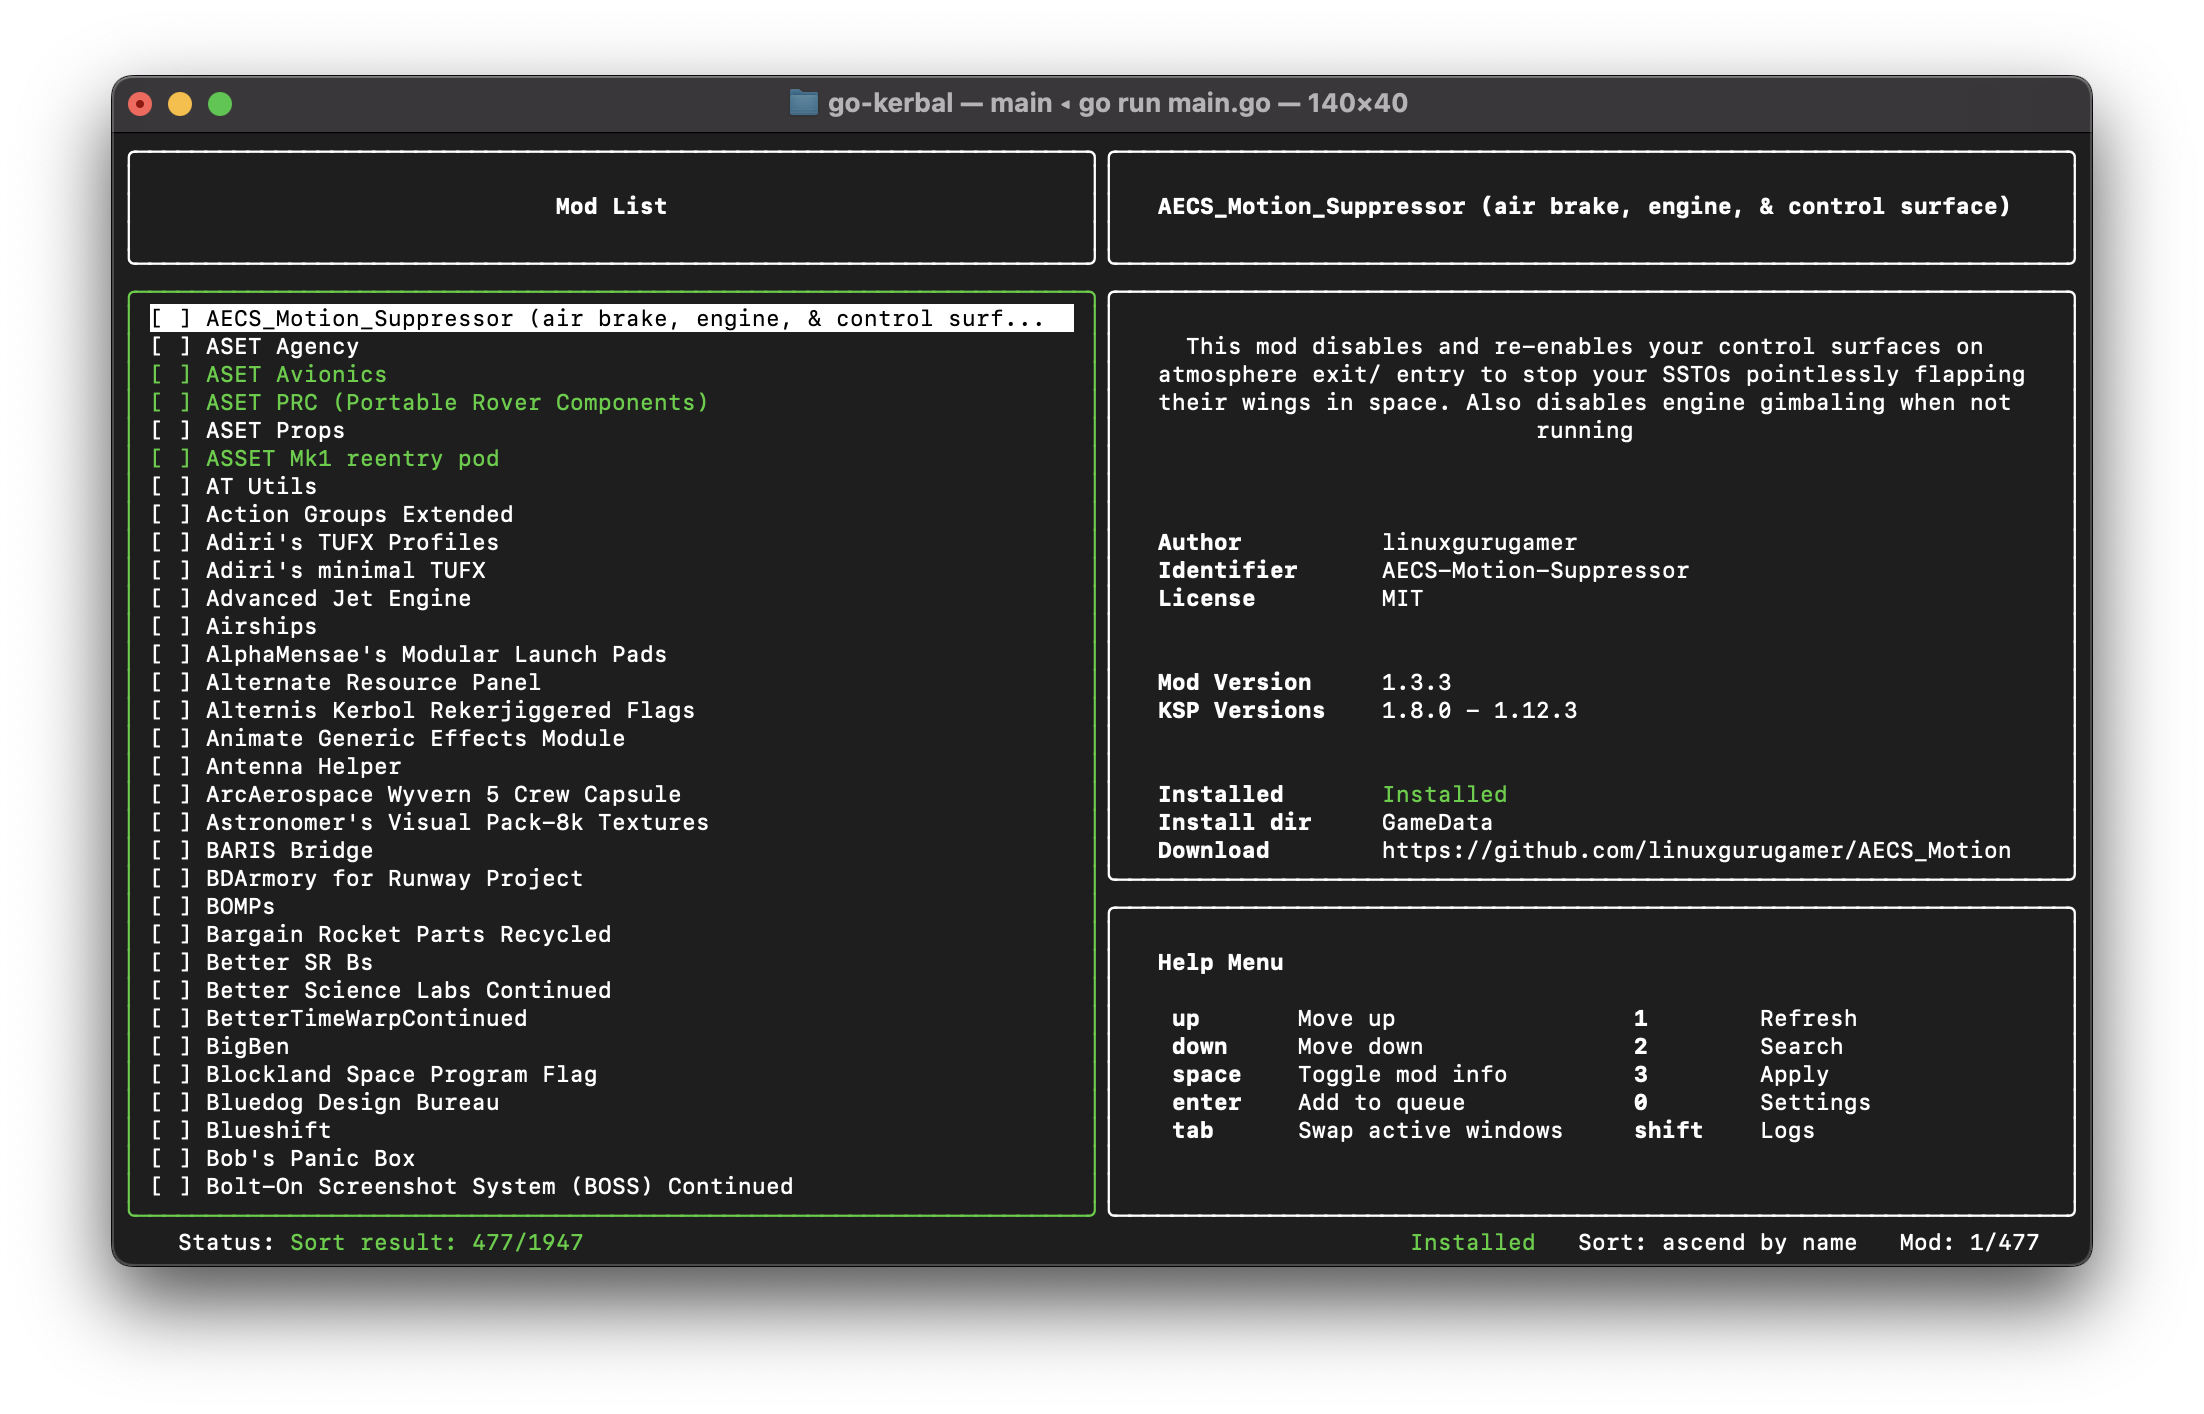
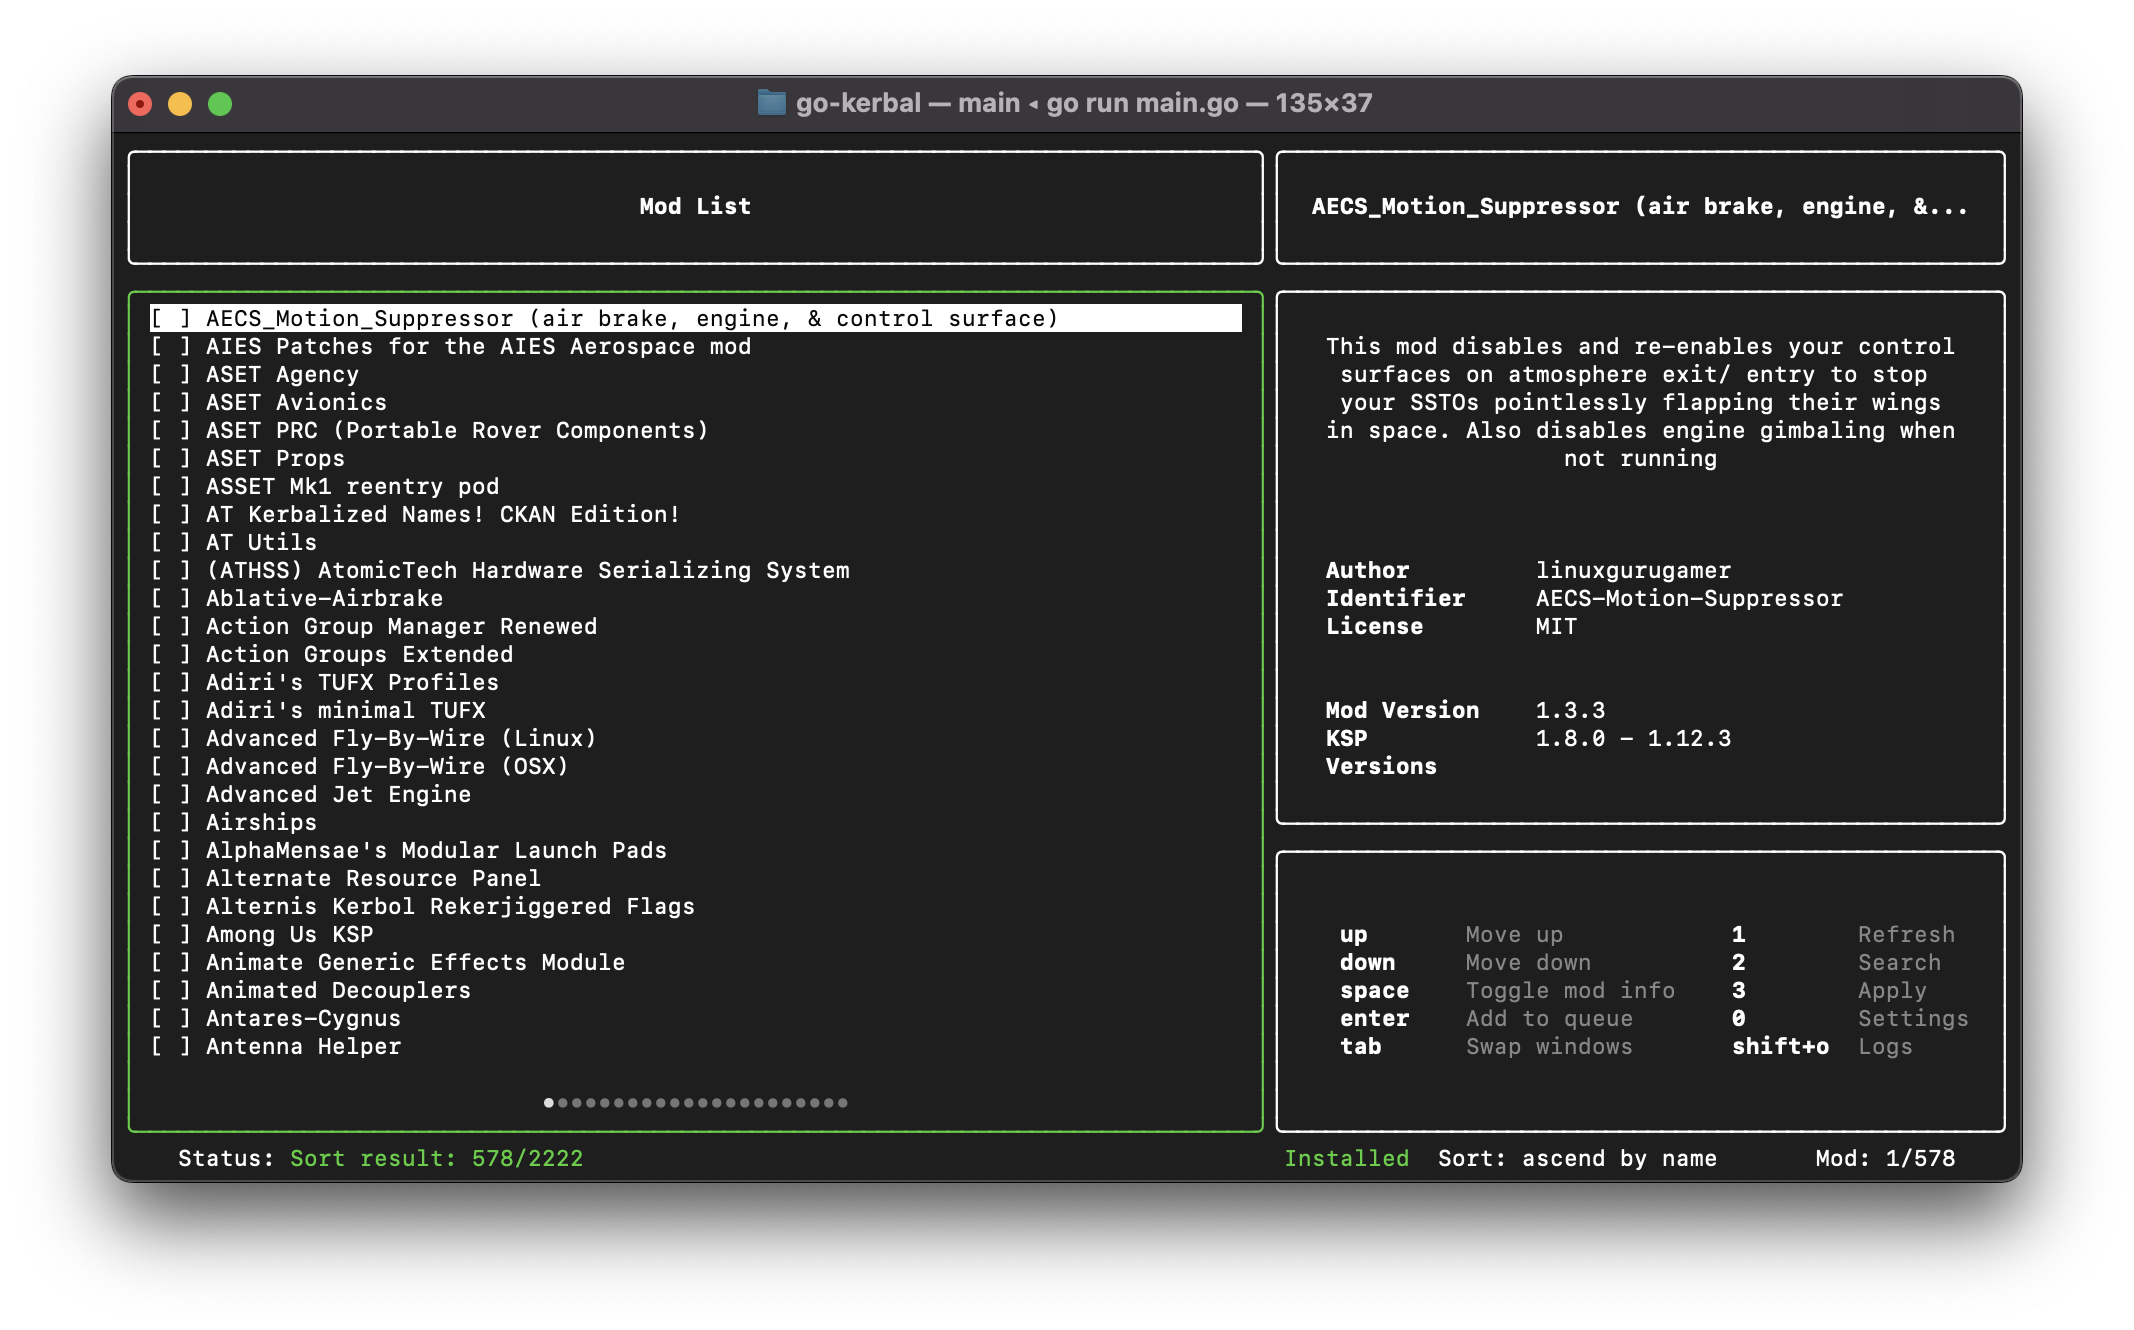
more format adjustments

diff --git a/tui/primaryViews.go b/tui/primaryViews.go
@@ -65,9 +65,10 @@ func (b Bubble) modInfoView() string {
 	if !b.nav.listCursorHide {
 		mod := b.nav.activeMod
 
-		keyStyle := style.KeyStyle.Width(b.bubbles.secondaryViewport.Width / 4)
+		keyStyle := style.KeyStyle.Width((b.bubbles.secondaryViewport.Width / 4) + 3)
 
-		valueStyle := style.ValueStyle.Width(b.bubbles.secondaryViewport.Width * 3 / 4)
+		//valueStyle := style.ValueStyle.Width(b.bubbles.secondaryViewport.Width * 3 / 4)
+		valueStyle := style.ValueStyle
 
 		abstractStyle := style.AbstractInfo.Width(b.bubbles.secondaryViewport.Width)
 
@@ -99,7 +100,8 @@ func (b Bubble) modInfoView() string {
 			installed = drawKVColor("Installed", "Installed", theme.AppTheme.InstalledColor)
 		}
 		installDir := drawKV("Install dir", mod.Install.InstallTo)
-		download := drawKV("Download", mod.Download.URL)
+		download := trunc(mod.Download.URL, (b.bubbles.secondaryViewport.Width*2/3)-3)
+		download = drawKV("Download", download)
 		dependencies := drawKVColor("Dependencies", "None", theme.AppTheme.Green)
 		if len(mod.ModDepends) > 0 {
 			dependencies = drawKVColor("Dependencies", strings.Join(mod.ModDepends, ", "), theme.AppTheme.Orange)
@@ -325,6 +327,8 @@ func (b Bubble) settingsView() string {
 	compat := b.drawKV("Hide Incompatible", fmt.Sprintf("%v", cfg.Settings.HideIncompatibleMods), false)
 
 	kspDir := trunc(cfg.Settings.KerbalDir, (b.bubbles.secondaryViewport.Width*2/3)-3)
+	metaRepo := trunc(cfg.Settings.MetaRepo, (b.bubbles.secondaryViewport.Width*2/3)-3)
+	hash := trunc(cfg.Settings.LastRepoHash, (b.bubbles.secondaryViewport.Width*2/3)-3)
 
 	if b.nav.menuCursor == internal.MenuKspDir {
 		configLines = append(configLines, b.drawKV("Kerbal Directory", kspDir, true))
@@ -335,8 +339,8 @@ func (b Bubble) settingsView() string {
 	configLines = append(configLines, b.drawKV("Kerbal Version", cfg.Settings.KerbalVer, false))
 	configLines = append(configLines, b.drawKV("Logging", fmt.Sprintf("%v", cfg.Settings.EnableLogging), false))
 	configLines = append(configLines, b.drawKV("Mousewheel", fmt.Sprintf("%v", cfg.Settings.EnableMouseWheel), false))
-	configLines = append(configLines, b.drawKV("Metadata Repo", cfg.Settings.MetaRepo, false))
-	configLines = append(configLines, b.drawKV("Last Repo Hash", cfg.Settings.LastRepoHash, false))
+	configLines = append(configLines, b.drawKV("Metadata Repo", metaRepo, false))
+	configLines = append(configLines, b.drawKV("Last Repo Hash", hash, false))
 	configLines = append(configLines, b.drawKV("Theme", cfg.AppTheme, false))
 
 	switch b.nav.menuCursor {

diff --git a/tui/secondaryViews.go b/tui/secondaryViews.go
@@ -9,7 +9,7 @@ import (
 )
 
 func (b Bubble) homeView() string {
-	contentStyle := styleWidth(b.bubbles.commandViewport.Width - 5).
+	contentStyle := styleWidth(b.bubbles.commandViewport.Width).
 		Padding(2).
 		Render
 
@@ -25,7 +25,7 @@ func (b Bubble) homeView() string {
 			"\n" +
 			"Press tab to get back to the confirmation window \n"
 		content = styleWidth(b.bubbles.secondaryViewport.Width).
-			Align(lipgloss.Center).
+			Align(lipgloss.Left).
 			Render(content)
 	default:
 		content = "" +
@@ -83,7 +83,7 @@ func (b Bubble) helpView() string {
 		b.drawHelpKV("down", "Move down"),
 		b.drawHelpKV("space", "Toggle mod info"),
 		b.drawHelpKV("enter", "Add to queue"),
-		b.drawHelpKV("tab", "Swap active windows"),
+		b.drawHelpKV("tab", "Swap windows"),
 	}
 
 	rightColumn := []string{
@@ -102,7 +102,7 @@ func (b Bubble) helpView() string {
 
 	return styleWidth(b.bubbles.commandViewport.Width).
 		Align(lipgloss.Left).
-		Padding(1, 3).
+		Padding(1, 1).
 		Render(content)
 }
 

diff --git a/tui/update.go b/tui/update.go
@@ -81,10 +81,10 @@ func (b Bubble) Update(msg tea.Msg) (tea.Model, tea.Cmd) {
 		b.width = msg.Width
 		b.height = msg.Height
 
-		b.bubbles.secondaryViewport.Width = (msg.Width / 3) - b.bubbles.secondaryViewport.Style.GetHorizontalFrameSize()
+		b.bubbles.secondaryViewport.Width = (msg.Width / 3) - b.bubbles.secondaryViewport.Style.GetHorizontalFrameSize() + 8
 		b.bubbles.secondaryViewport.Height = (msg.Height * 2 / 3) - internal.StatusBarHeight - b.bubbles.secondaryViewport.Style.GetVerticalFrameSize() - 3
 
-		b.bubbles.commandViewport.Width = (msg.Width / 3) - b.bubbles.commandViewport.Style.GetHorizontalFrameSize()
+		b.bubbles.commandViewport.Width = (msg.Width / 3) - b.bubbles.commandViewport.Style.GetHorizontalFrameSize() + 8
 		b.bubbles.commandViewport.Height = (msg.Height / 3) - b.bubbles.commandViewport.Style.GetVerticalFrameSize() - 1
 
 		b.bubbles.primaryPaginator.SetWidth(msg.Width - b.bubbles.secondaryViewport.Width - 8)

diff --git a/tui/keyhandler.go b/tui/keyhandler.go
@@ -138,7 +138,9 @@ func (b *Bubble) handleEnterKey() tea.Cmd {
 
 	switch b.activeBox {
 	case internal.ModListView, internal.SearchView:
-		b.toggleSelectedItem()
+		if !b.nav.listCursorHide {
+			b.toggleSelectedItem()
+		}
 	case internal.EnterKspDirView:
 		cmds = append(cmds, b.updateKspDirCmd(b.bubbles.textInput.Value()))
 	case internal.SettingsView:
@@ -158,7 +160,6 @@ func (b *Bubble) handleEnterKey() tea.Cmd {
 			}
 		} else {
 			b.toggleSelectedItem()
-
 			b.prepareQueueView()
 		}
 	}

diff --git a/tui/view.go b/tui/view.go
@@ -160,12 +160,12 @@ func (b Bubble) drawKV(k, v string, color bool) string {
 }
 
 func (b Bubble) drawHelpKV(k, v string) string {
-	keyStyle := style.KeyStyle.Width(b.bubbles.commandViewport.Width / 5)
+	keyStyle := style.KeyStyle.Copy().Width(11)
 
 	valueStyle := lipgloss.NewStyle().
 		Align(lipgloss.Center).
 		Faint(true).
-		PaddingRight(4)
+		PaddingRight(2)
 
 	return connectHorz(keyStyle.Render(k), valueStyle.Render(v))
 }
